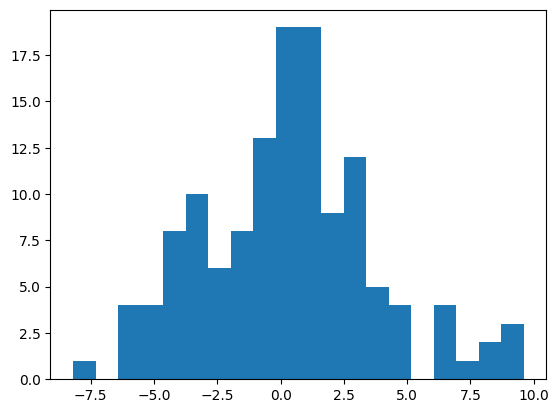
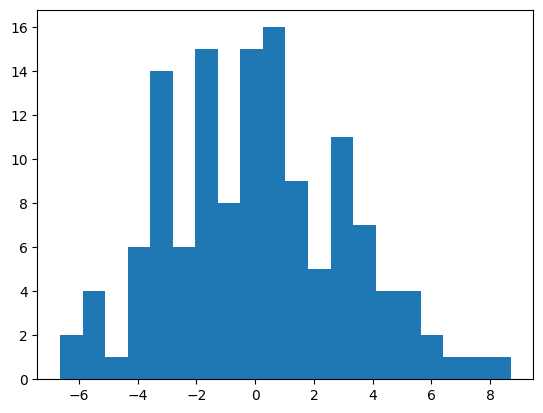
xG

diff --git a/_posts/2025-3-31-floorball-xG-tarkkuus-naiset.md b/_posts/2025-3-31-floorball-xG-tarkkuus-naiset.md
@@ -19,12 +19,12 @@ Maaliodottama xG kertoo, kuinka monta maalia ottelussa esiintyneistä tilanteist
 
 Kuvio 1 kertoo ottelussa tehtyjen maalien määrän ja maaliodottaman xG:n erotuksen naisten F-Liigassa. Toisin sanoen, Kuvio 1 näyttää, kuinka suuri "virhe" on maaliodottamassa.
 
-Aineisto, johon xG on sovitettu, on sama kuin analyysiaineisto, joten eron keskiarvon pitäisi olla nolla. Näin se lähes onkin. Eron keskiarvo on 0,054 maalia ottelussa.
-
-Keskiarvoa kiinnostavampi asia on toteuman ja xG:n eron keskihajonta. Eron keskihajonta on 3,94 maalia ottelua kohden. Ottelutuloksissa on muutamia todella suuria, yli 10 maalin eroja. Toisin sanoen, muutamassa ottelussa joukkue on ali- tai ylisuorittanut maaliodottamaan nähden erittäin paljon.
+Aineisto, johon xG on sovitettu, on sama kuin analyysiaineisto, joten eron keskiarvon pitäisi olla nolla. Näin se lähes onkin. Eron keskiarvo on 0,058 maalia ottelussa.
 
 ![Maalien jakauma](/images/floorball/predict/distwomen_frq_minus_xG.png)<br>
 _Kuvio 1. Tehtyjen maalien ja maaliodottaman ero maaleina ottelua kohden._
+
+Keskiarvoa kiinnostavampi asia on toteuman ja xG:n eron keskihajonta. Eron keskihajonta on 3,03 maalia ottelua kohden, selvästi pienempi naisilla kuin miehillä (3,9 maalia/ottelu). Ottelutuloksissa on muutamia suuria, yli 6 maalin eroja. Miehillä äärihavainnot olivat selvästi suurempia. Toisin sanoen, muutamassa ottelussa joukkue on ali- tai ylisuorittanut maaliodottamaan nähden erittäin paljon.
 
 2 Kotijoukkueen etu
 ===
@@ -41,7 +41,7 @@ _Kuvio 2. Montako maalia kotijoukkue tekee vierasta enemmän. Toteuman ja maalio
 Jos ottelun tuloksen laskee xG:n avullaa, saa arvion siitä, montako maalia syntyisi, jos kaikki joukkueet olisivat yhtä hyviä viimeistelemään. 
 
 Aineistossa otteluita on 132, joista kotivoitto 69, vierasvoitto 57 ja tasapeli 6.
-Maaliodottama saa otteluissa oikean voittajan 138:ssa ottelussa. Osuus on siis 67 prosenttia.
+Maaliodottama saa otteluissa oikean voittajan 104:ssa ottelussa. Osuus on siis 79 prosenttia.
 Jos vaaditaan, että maaliodottaman ero on vähintään 0,2, maaliodottama ennusti oikein voittajan 102:ssä kaikkiaan 132:sta ottelusta, siis tarkkuudella 77 prosenttia.
 
 Kotivoitoista maaliodottama ennusti oikein voittajan 56:ssä kaikkiaan 69:sta ottelusta. Tarkkuus oli siis 81 prosenttia, kun voiton ennustaminen tarkoittaa sitä, että kotijoukkueen maaliodottama on 0,2 korkeampi kuin vierasjoukkueen.

diff --git a/_posts/2025-3-25-floorball-xG-tarkkuus-miehet.md b/_posts/2025-3-25-floorball-xG-tarkkuus-miehet.md
@@ -42,10 +42,10 @@ Jos ottelun tuloksen laskee xG:n avullaa, saa arvion siitä, montako maalia synt
 
 Aineistossa otteluita on 206, joista kotivoitto 106, vierasvoitto 83 ja tasapeli 17.
 Maaliodottama saa otteluissa oikean voittajan 138:ssa ottelussa. Osuus on siis 67 prosenttia.
-Jos vaaditaan, että maaliodottaman ero on vähintään 0,2, maaliodottama ennusti oikein voittajan 125:ssä kaikkiaan 206:sta ottelusta, siis tarkkuudella 61 prosenttia.
+Jos vaaditaan, että maaliodottaman ero on vähintään 0,2, maaliodottama ennusti oikein voittajan 126:ssä kaikkiaan 207:sta ottelusta, siis tarkkuudella 61 prosenttia.
 
-Kotivoitoista maaliodottama ennusti oikein voittajan 125:ssä kaikkiaan 206:sta ottelusta. Tarkkuus oli siis 61 prosenttia, kun voiton ennustaminen tarkoittaa sitä, että kotijoukkueen maaliodottama on 0,2 korkeampi kuin vierasjoukkueen.
-Vierasvoitoista maaliodottama ennusti 60 kaikkiaan 83:sta tarkkuus siis 72 prosenttia (maaliodottamien ero on vähintään 0,2).
+Kotivoitoista maaliodottama ennusti oikein voittajan 60:ssä kaikkiaan 106:sta ottelusta. Tarkkuus oli siis 57 prosenttia (kun maaliodottaman pitää olla 0,2 korkeampi).
+Vierasvoitoista maaliodottama ennusti 61 kaikkiaan 84:sta tarkkuus siis 73 prosenttia (maaliodottamien ero on vähintään 0,2).
 Tasapelin (maaliodottaman ero alle 0,4) maaliodottama ennusti 5 kaikkiaan 17:sta tarkkuus siis 29 prosenttia.
 Maaliodottama siis ennusti vierasvoitot parhaiten. 
 

diff --git a/_posts/2025-3-28-ervi-classic-xG.md b/_posts/2025-3-28-ervi-classic-xG.md
@@ -78,3 +78,7 @@ Kuudes ottelu: EräViikingit x - Classic x
 
 Seitsemäs ottelu: Classic x - EräViikingit x
 ===
+
+Yhteenveto
+===
+
